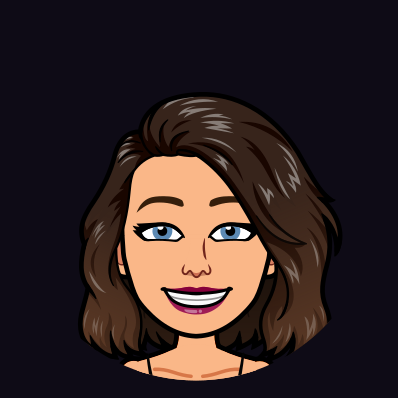
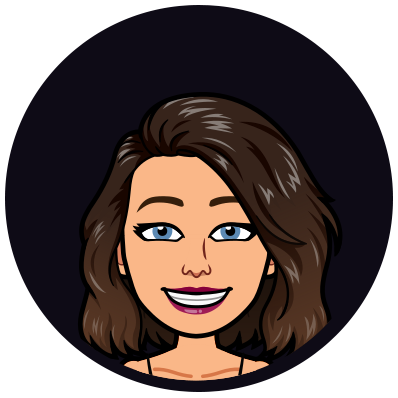
various updates

Changed region(s): [[0.0, 0.0, 1.0, 1.0]]

diff --git a/index.html b/index.html
@@ -18,7 +18,7 @@
 <link rel="stylesheet" href="/assets/main.css"><link type="application/atom+xml" rel="alternate" href="http://localhost:4000/feed.xml" title="Jade Livingston" /></head>
 <body><header class="site-header" role="banner">
 
-  <div class="wrapper"><a class="site-title" rel="author" href="/">Jade Livingston</a><nav class="site-nav">
+  <div class="wrapper"><a class="site-title" rel="author" href="/">Hair by Jade</a><nav class="site-nav">
         <input type="checkbox" id="nav-trigger" class="nav-trigger" />
         <label for="nav-trigger">
           <span class="menu-icon">
@@ -38,12 +38,15 @@
 <main class="page-content" aria-label="Content">
       <div class="wrapper">
         <div class="home">
-<img class="profile-img center round" alt="profile" style="width:10rem;">
+<img class="profile-img center" alt="profile" style="width:15rem;">
+<h1 class="page-heading center"> Jade Livingston </h1>
+<!---<h2 class="post-list-heading">About</h2> --->
+  <p class="about-me">Multicertified hairstylist with a passion for delivering hair artistry and service excellence exceeding client expectations. Blend creativity, vision and skill with strengths in achieving custom cut, color and design solutions meeting client needs and lifestyles. Savvy marketer, proven sales generator and builder of lasting relationships and loyal clientele. Successful working in value-priced franchises as well as luxury salons.</p>
 <h2 class="post-list-heading">Recent</h2>
     <ul class="post-list"><li><span class="post-meta">Jun 16, 2019</span>
         <h3>
           <a class="post-link" href="/jekyll/update/2019/06/16/welcome-to-jekyll.html">
-            Welcome to Jekyll!
+            Sample Post
           </a>
         </h3></li></ul>
 

diff --git a/assets/main.css b/assets/main.css
@@ -14,7 +14,7 @@ dl, dd, ol, ul, figure {
 body {
   font: 400 16px/1.5 -apple-system, BlinkMacSystemFont, "Segoe UI", Roboto, Helvetica, Arial, sans-serif, "Apple Color Emoji", "Segoe UI Emoji", "Segoe UI Symbol";
   color: #E7DFDD;
-  background-color: #181525;
+  background-color: #0E0B16;
   -webkit-text-size-adjust: 100%;
   -webkit-font-feature-settings: "kern" 1;
   -moz-font-feature-settings: "kern" 1;
@@ -71,7 +71,7 @@ li > ol {
  * Headings
  */
 h1, h2, h3, h4, h5, h6 {
-  font-weight: 400; }
+  font-weight: 300; }
 
 /**
  * Links
@@ -156,7 +156,7 @@ pre {
   height: 16px;
   display: inline-block;
   fill: #4717F6;
-  padding: 8px;
+  padding: 0 8px 0 8px;
   vertical-align: text-top; }
 
 .social-media-list li + li {
@@ -164,7 +164,7 @@ pre {
 
 .profile-img {
   content:url("img/profile.png");
-  padding-bottom: 50px;
+  padding-bottom: 30px;
 }
 
 /**
@@ -234,7 +234,7 @@ table {
       top: 9px;
       right: 15px;
       background-color: #0E0B16;
-      border: 1px solid #4717F6;
+      border: 0px solid #4717F6;
       border-radius: 5px;
       text-align: right; }
       .site-nav label[for="nav-trigger"] {
@@ -529,6 +529,19 @@ table {
   width: 50%;
 }
 
-.round {
-  border-radius: 50%;
+.page-heading {
+  padding: 4px;
+  border: 2px solid #4717F6;
+  text-align: center;
+  color: #4717F6;
+  display: block;
+  background-color: #0E0B16;
 }
+
+.about-me {
+  font-size: 16px;
+  border: 1px solid #2c2939;
+  border-radius: 3px;
+  background-color: #2c2939;
+  padding: 16px;
+ }
